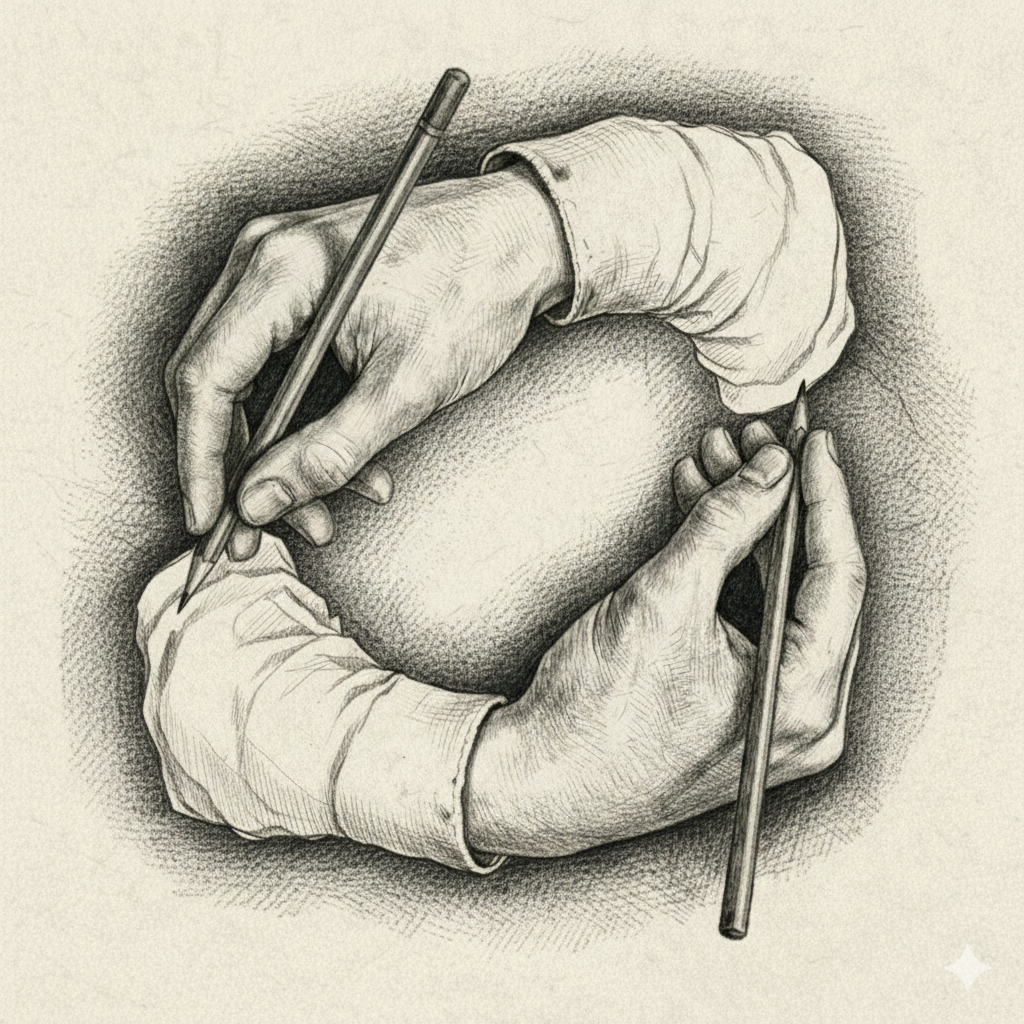
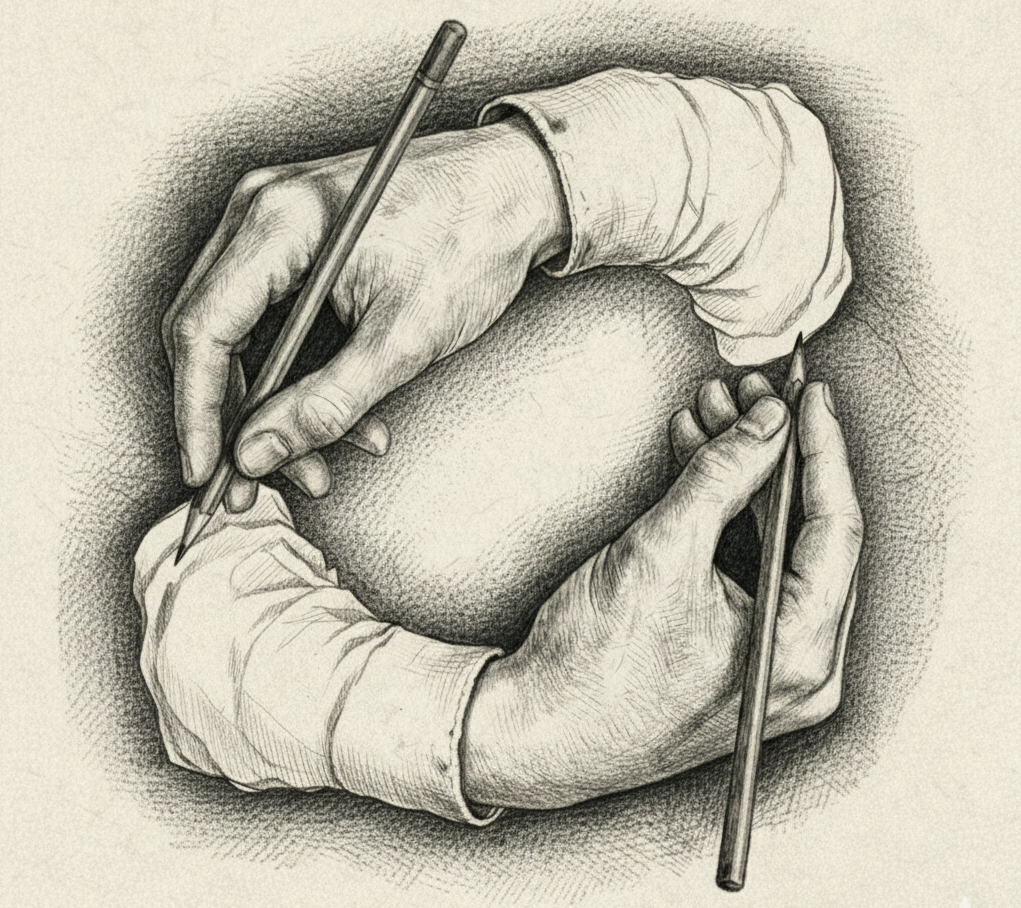
v0.63 -> Fixed Hand on Desktop

diff --git a/src/components/EscherBackground.tsx b/src/components/EscherBackground.tsx
@@ -7,6 +7,10 @@ export default function EscherBackground() {
     const INITIAL_RADIUS_DESKTOP_PX = 0;
     const INITIAL_RADIUS_MOBILE_PX = 0;
 
+    // Image margin configuration
+    const IMAGE_TOP_MARGIN_VH = 5; // 10vh margin from top
+    const IMAGE_BOTTOM_MARGIN_VH = 5; // 10vh margin from bottom
+
     const canvasRef = useRef<HTMLCanvasElement>(null);
     const containerRef = useRef<HTMLDivElement>(null);
     const [isLoaded, setIsLoaded] = useState(false);
@@ -117,7 +121,7 @@ export default function EscherBackground() {
 
         const gl = probeGl;
         const image = new window.Image();
-        image.src = "/images/hands2.webp";
+        image.src = "/images/hands2.png";
 
         const targetFps = isMobile ? 24 : 60;
         const fpsInterval = 1000 / targetFps;
@@ -126,8 +130,16 @@ export default function EscherBackground() {
         const scrollSpeed = 0;
         const MOBILE_IMAGE_ZOOM = 1.4; // ← increase to zoom in on the image on mobile (e.g. 1.2 = 20% zoom)
         const IMAGE_ROTATION_DEG = -30.0; // ← angle in degrees to rotate the underlying image clockwise
-        const fitContain = isMobile ? 1.0 : 0.0;
-        const mobileZoom = isMobile ? MOBILE_IMAGE_ZOOM : 1.0;
+        const WAVE_INTENSITY = 0.3; // ← adjust wave strength (e.g. 0.8 is strong, 0.3 is minimalist/subtle)
+        const HOVER_INTENSITY = 0.75; // ← adjust hover max strength
+        const fitContain = 1.0;
+        
+        // Calculate zoom accounting for padding
+        const totalPaddingVh = IMAGE_TOP_MARGIN_VH + IMAGE_BOTTOM_MARGIN_VH;
+        const availableHeightVh = 100 - totalPaddingVh;
+        const paddingZoomFactor = availableHeightVh / 100;
+        const baseZoom = isMobile ? MOBILE_IMAGE_ZOOM : 1.0;
+        const mobileZoom = baseZoom * paddingZoomFactor;
         // Cache DPR once — avoids recomputing on every render frame
         const dpr = Math.min(window.devicePixelRatio || 1, isMobile ? (isIPhone ? 2.25 : 1.6) : 2.0);
         const floatPrecision = isMobile ? 'mediump' : 'highp';
@@ -192,9 +204,10 @@ export default function EscherBackground() {
                 }
                 `}
 
-                float effectiveRadius = u_baseRadius * (1.0 + shimmer * 0.5 + magEffect * 0.75);
+                // Max possible radius used for early exit cull padding to save performance
+                float maxPossibleRadius = u_baseRadius * (1.0 + shimmer * ${WAVE_INTENSITY.toFixed(2)} + magEffect * ${HOVER_INTENSITY.toFixed(2)});
 
-                if (dist > effectiveRadius + 0.5) {
+                if (dist > maxPossibleRadius + 0.5) {
                     gl_FragColor = vec4(0.0);
                     return;
                 }
@@ -224,7 +237,7 @@ export default function EscherBackground() {
                 }
 
                 float offsetX = (u_resolution.x - drawWidth) * 0.5;
-                float offsetY = (u_resolution.y - drawHeight) * 0.5;
+                float offsetY = (u_resolution.y - drawHeight) * 0.5 - (u_resolution.y * 0.03); // Move up by 5vh
 
                 // Sample UV directly from cellCenter + uvOffset
                 float u = (cellCenter.x + uvOffset.x - offsetX) / drawWidth;
@@ -241,16 +254,29 @@ export default function EscherBackground() {
 
                 float brightness;
                 if (uv.x < 0.0 || uv.x > 1.0 || uv.y < 0.0 || uv.y > 1.0) {
-                    brightness = 255.0;
+                    // Match the image's background (white) so the pattern flows seamlessly
+                    brightness = 255.0; 
                 } else {
                     vec4 color = texture2D(u_image, uv);
                     brightness = dot(color.rgb, vec3(0.333333)) * 255.0;
                 }
 
-                float sizeFactor = (255.0 - brightness) / 255.0;
-                float dotSize = sizeFactor * effectiveRadius;
+                float rawSizeFactor = (255.0 - brightness) / 255.0;
+                
+                // Base size for the dot (0.15 min keeps background dots alive)
+                float baseSize = max(0.15, rawSizeFactor) * u_baseRadius;
+                
+                // Apply hover effect exactly like the original formulation
+                float hoverBonus = baseSize * (magEffect * ${HOVER_INTENSITY.toFixed(2)});
+                
+                // Make wave effects heavily independent of the image brightness!
+                float effectScale = mix(0.65, 1.0, rawSizeFactor); 
+                float waveBonus = u_baseRadius * (shimmer * ${WAVE_INTENSITY.toFixed(2)}) * effectScale;
 
-                if (brightness < 240.0 && dotSize > 0.5) {
+                float dotSize = baseSize + waveBonus + hoverBonus;
+
+                // Always draw dots, but smaller ones for bright areas
+                if (dotSize > 0.1) {
                     float alpha = 1.0 - smoothstep(dotSize - 0.5, dotSize + 0.5, dist);
                     if (alpha > 0.0) {
                         gl_FragColor = vec4(0.0, 0.0, 0.0, alpha * 0.85);

diff --git a/src/components/Typewriter.tsx b/src/components/Typewriter.tsx
@@ -192,8 +192,8 @@ export default function Typewriter() {
         <div className={`w-full flex flex-col items-center -translate-y-10 transition-transform duration-1000 ease-in-out ${text === "NUCLEUS." ? "-translate-y-12 sm:!-translate-y-12 lg:!-translate-y-16" : ""}`}>
             <div
                 id="typing"
-                style={fontSize ? { fontSize: `clamp(1.8rem, 8vw, ${fontSize})` } : undefined}
-                className={`mx-auto w-full max-w-[60vw] sm:max-w-xl px-2 sm:px-4 text-center ${text === "NUCLEUS." ? "final-text" : ""}`}
+                style={fontSize ? { fontSize: `clamp(1.8rem, 6vw, ${fontSize})` } : undefined}
+                className={`mx-auto w-full max-w-[50vw] sm:max-w-xl px-2 sm:px-4 text-center ${text === "NUCLEUS." ? "final-text" : ""}`}
             >
                 <span id="text" dangerouslySetInnerHTML={{ __html: text }}></span>
                 <span className="cursor"></span>
